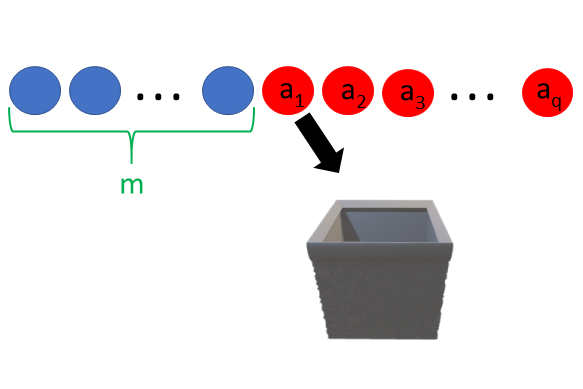
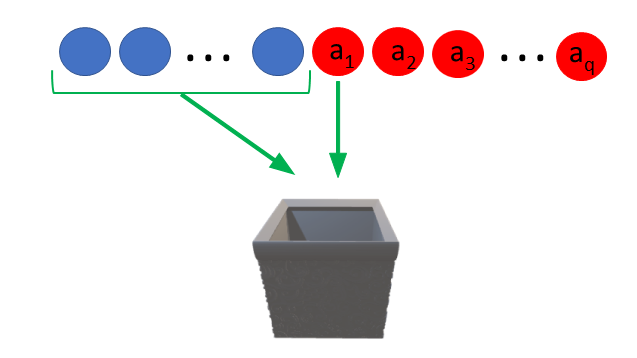
Problem 54 is edited(2nd edition).

diff --git a/Contents/CombinatorialAnalysis/Problems/54/a2.tex b/Contents/CombinatorialAnalysis/Problems/54/a2.tex
@@ -14,54 +14,45 @@ $k + 1$
 توپ را انتخاب میکنیم. با توجه به شرط قرمز بودن حداقل یکی از توپها، طبق اصل متمم، تعداد حالات نامطلوب یعنی حالاتی که تمام توپهای انتخاب شده آبی باشند را از حاصل بهدست آمده، کم میکنیم:
 $$\binom{n + 1}{k + 1} - \binom{m}{k + 1}$$
 \item 
-روش دوم:\[\sum\limits_{p=m}^{n}\binom{p}{k}\]
+روش دوم:
 فرض میکنیم تعداد توپهای قرمز
 $q$
 بوده و آنها را با
 $a_1, a_2, \cdots, a_q$
 نشان میدهیم. 
-میخواهیم توپهای انتخاب شده را در جعبه قرار دهیم.
-\centerimage{0.9}{./0.png}
-توجه کنیم که توپها متمایز هستند. بنابراین برای شمردن همهی حالتها، هر بار به ترتیب یک توپ قرمز را انتخاب میکنیم تا حداقل یک توپ قرمز در جعبه قرار گیرد.
+\centerimage{0.5}{./0.png}
+توجه کنیم که توپها متمایز هستند. بنابراین برای شمردن همهی حالتها، هر بار به ترتیب از سمت چپ یک توپ قرمز 
+$(1\leq i\leq q) a_i$
+ را انتخاب میکنیم تا به عنوان توپ قرمز قطعی در جعبه قرار گیرد.
 سپس 
- K
- توپ دیگر را از بین توپهای آبی و توپهای قرمز انتخاب شده در مراحل قبل انتخاب میکنیم.
- بار اول تنها
-$a_1$
-را از میان توپهای قرمز انتخاب و
-$k$
-توپ دیگر را از توپهای آبی انتخاب میکنیم:
-$$\binom{m}{k}$$
-\centerimage{0.5}{./1.png}
- بار دوم
-$a_2$
-را انتخاب کرده و بقیه توپها را از میان تمام توپهای آبی و 
-$a_1$
- انتخاب میکنیم:
- $$\binom{m + 1}{k}$$
- \centerimage{0.5}{./2.png}
-بار سوم
-$a_3$
-را انتخاب کرده و بقیه توپها را از بین تمام توپهای آبی و 
-$a_1$
- و 
- $a_2$
-  انتخاب میکنیم:
- $$\binom{m + 2}{k}$$
-  \centerimage{0.5}{./3.png}
- در نهایت 
-$a_q$
-را انتخاب کرده و بقیه توپها را از میان تمام توپهای آبی و 
-$q - 1$
-تا توپ قرمز قبل از
-$a_q$
- انتخاب میکنیم:
- $$\binom{n}{k}$$
- \centerimage{0.5}{./4.png}
-حال طبق اصل جمع، تعداد کل حالات در این روش به صورت :
- $\sum\limits_{p=m}^{n}\binom{p}{k}$
+ $k$
+ توپ دیگر را از بین توپهای آبی و توپهای قرمز 
+ $(1\leq j<i) a_j$
+  انتخاب میکنیم.
+طبق اصل جمع، تعداد کل حالات در این روش به صورت
+ $\sum\limits_{i=1}^{q}\binom{m+i-1}{k}$
 محاسبه میشود.
+\newpage
+\p
+\leftline{:$i = 1$}
+\centerimage{0.5}{./1.png}
+$$\binom{m}{k}$$
+\hrule
+\p
+\\\leftline{:$i = 2$}
+ \centerimage{0.5}{./2.png}
+ $$\binom{m + 1}{k}$$
+ \hrule
+\p
+\\\leftline{:$i = 3$}
+  \centerimage{0.5}{./3.png}
+  $$\binom{m + 2}{k}$$
+  \newpage
+ \p
+ \leftline{:$i = q$}
+ \centerimage{0.5}{./4.png}
+ $$\binom{n}{k}$$
+
 \end{itemize}
 با توجه به معادل بودن هر دو روش فوق، طبق دوگانهشماری داریم:
-$$\sum\limits_{p=m}^{n}\binom{p}{k} = \binom{m}{k} + \binom{m + 1}{k} +\ldots +
-\binom{n}{k} = \binom{n + 1}{k + 1} - \binom{m}{k + 1}$$
+$$\sum\limits_{p=m}^{n}\binom{p}{k} = \binom{n + 1}{k + 1} - \binom{m}{k + 1}$$
